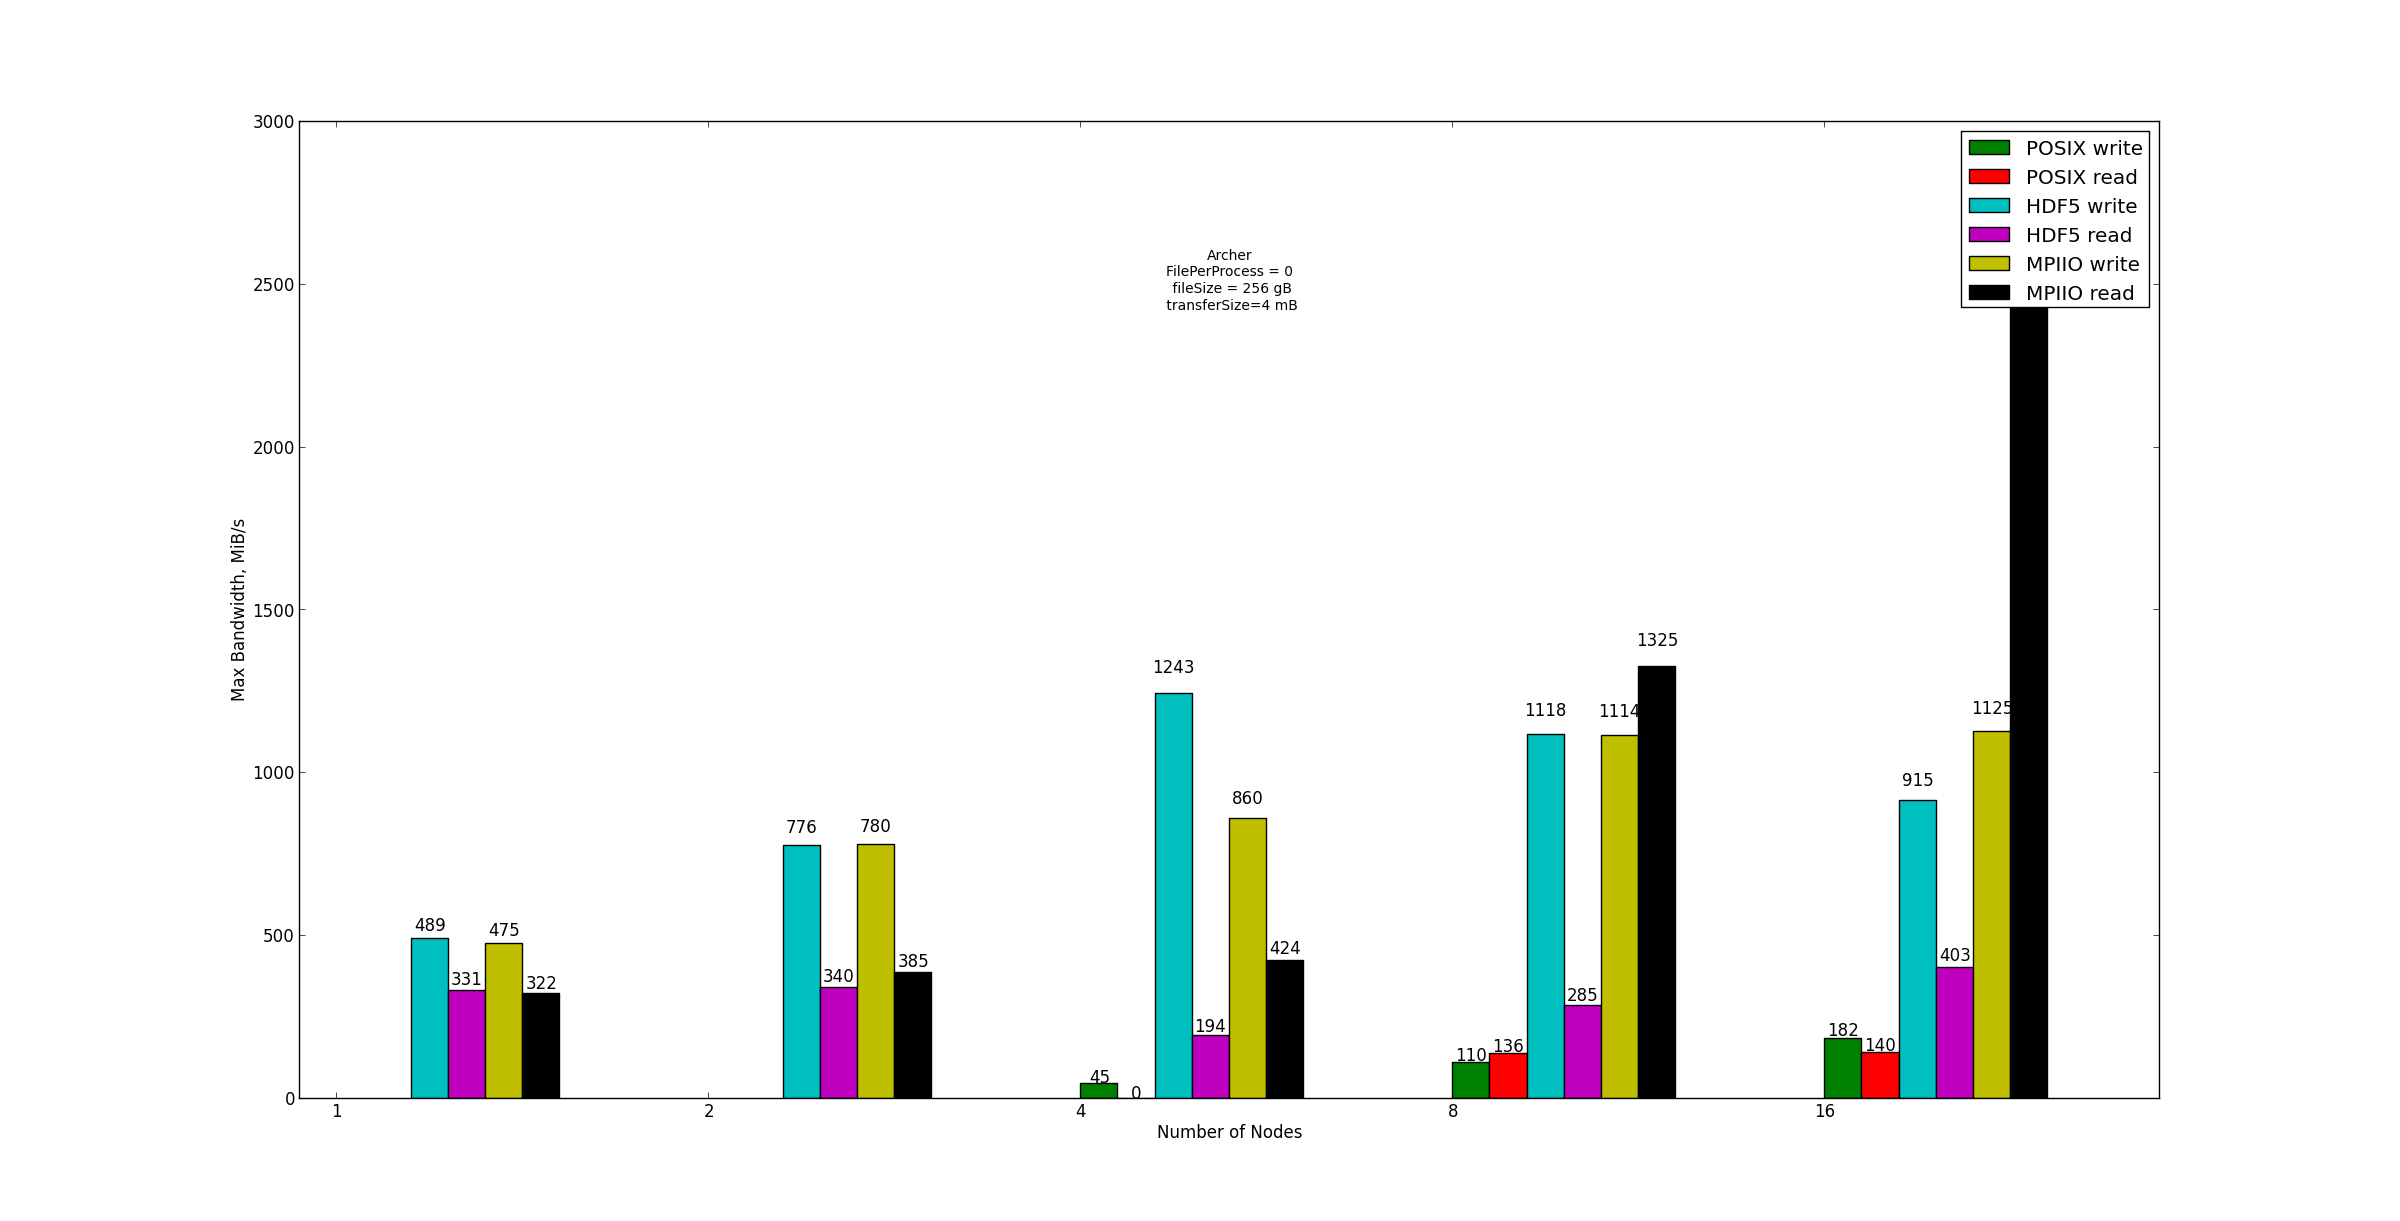
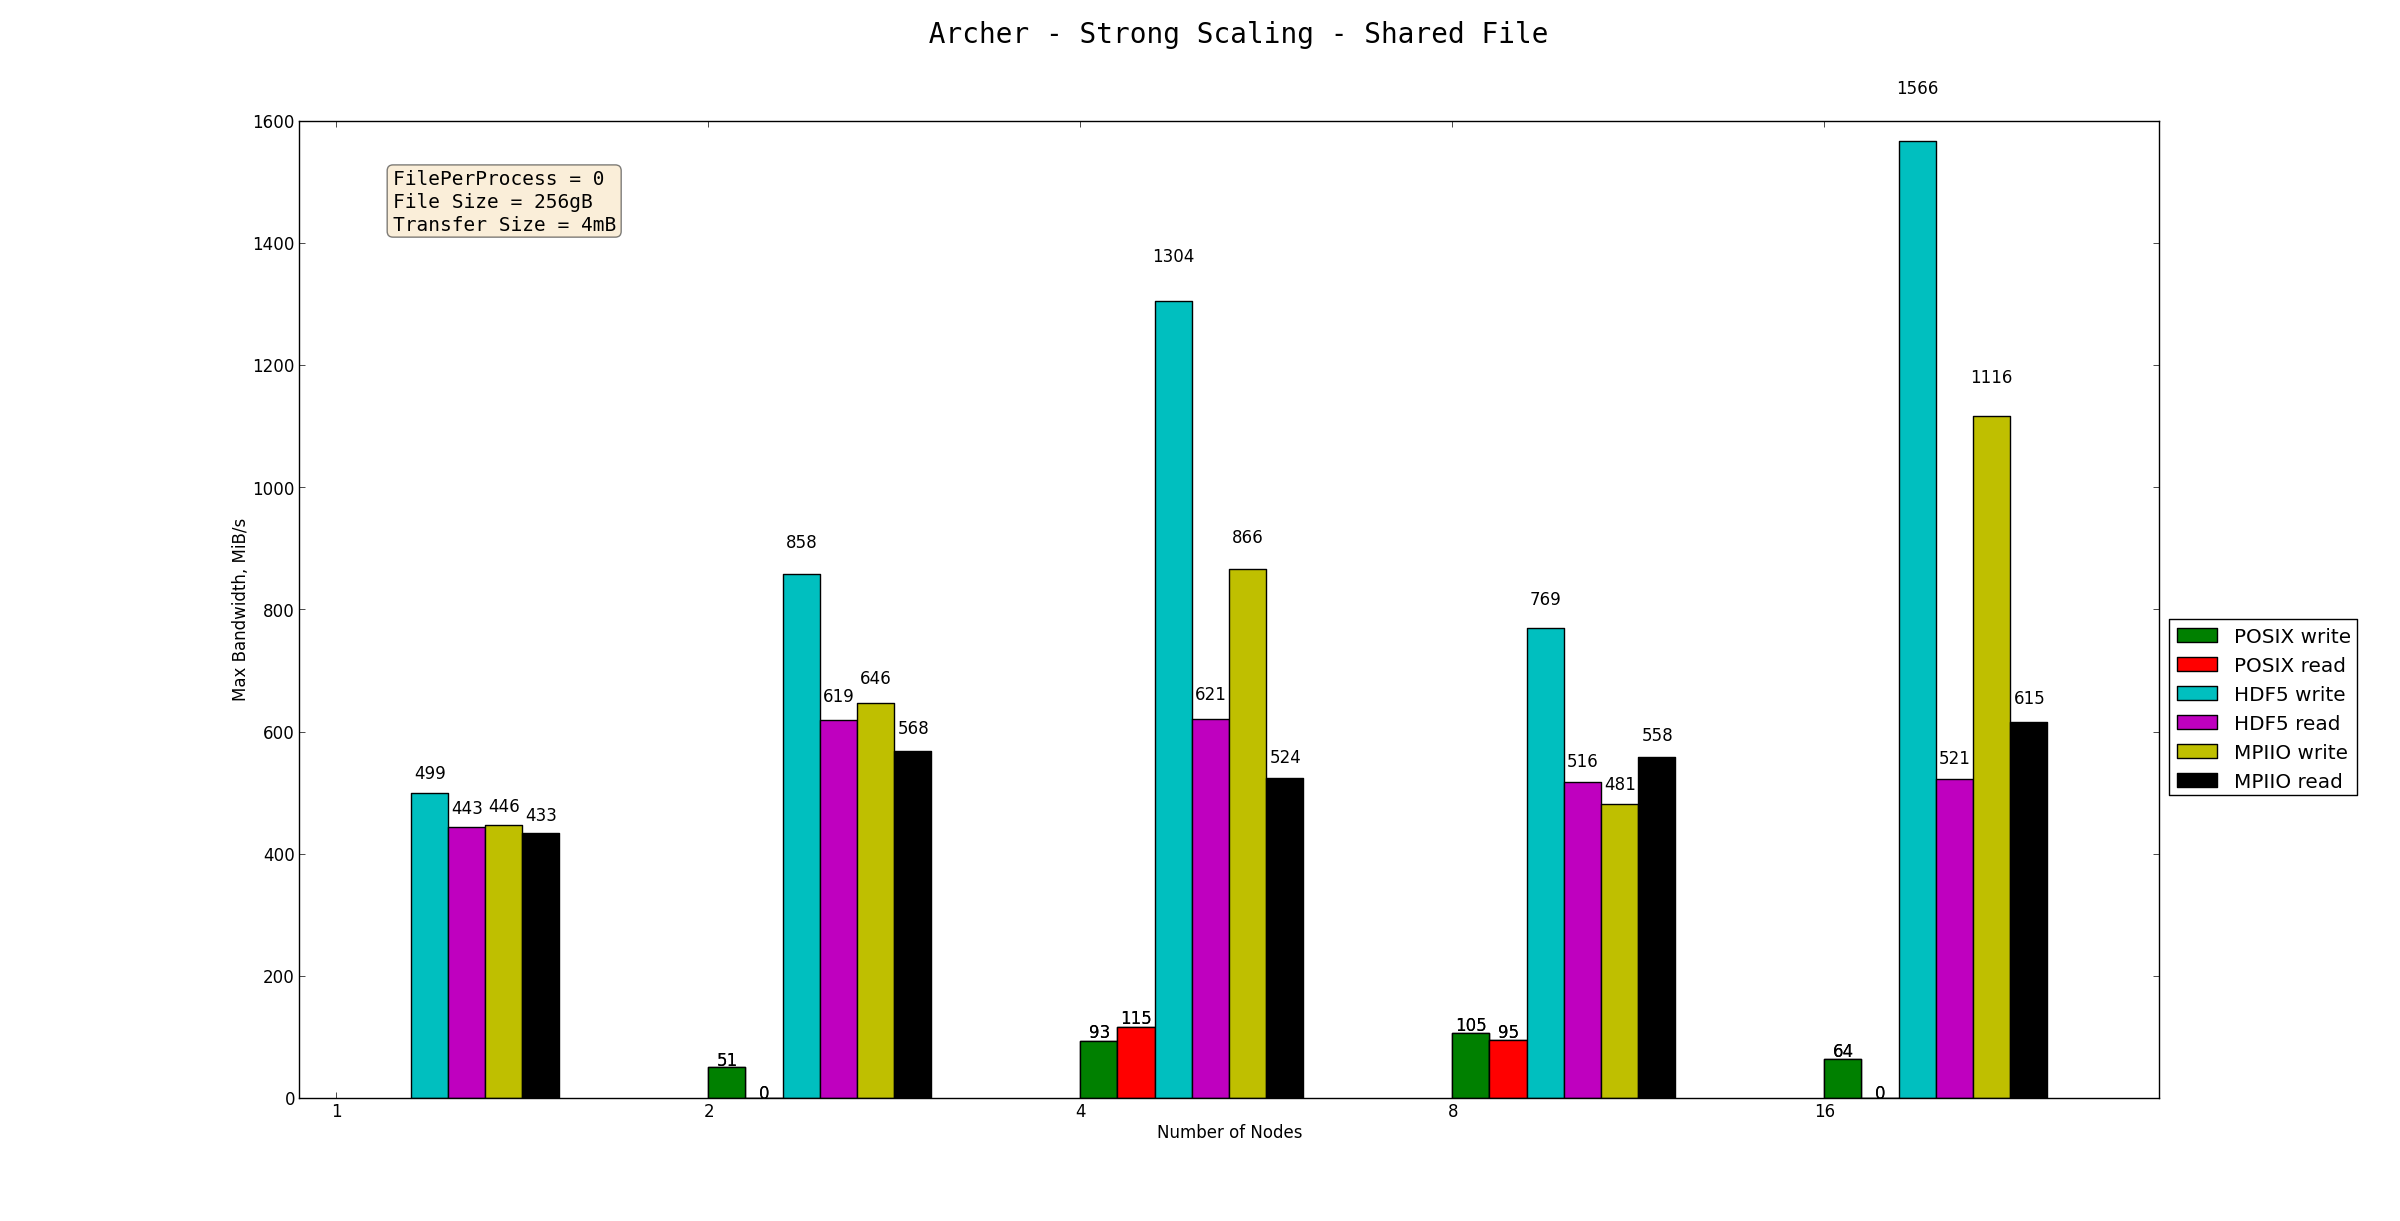
archer_corrected

diff --git a/script_template.py b/script_template.py
@@ -220,7 +220,7 @@ Title = Title.replace("Title:", "")
 props = dict(boxstyle='round', facecolor='wheat', alpha=0.5)
 
 # place a text box in upper left in axes coords
-axs.text(0.05, 0.95, chartTitle, transform=axs.transAxes, fontsize=14,
+axs.text(0.95, 0.95, chartTitle, transform=axs.transAxes, fontsize=14,
         verticalalignment='top', bbox=props, fontdict=font)
 
 
